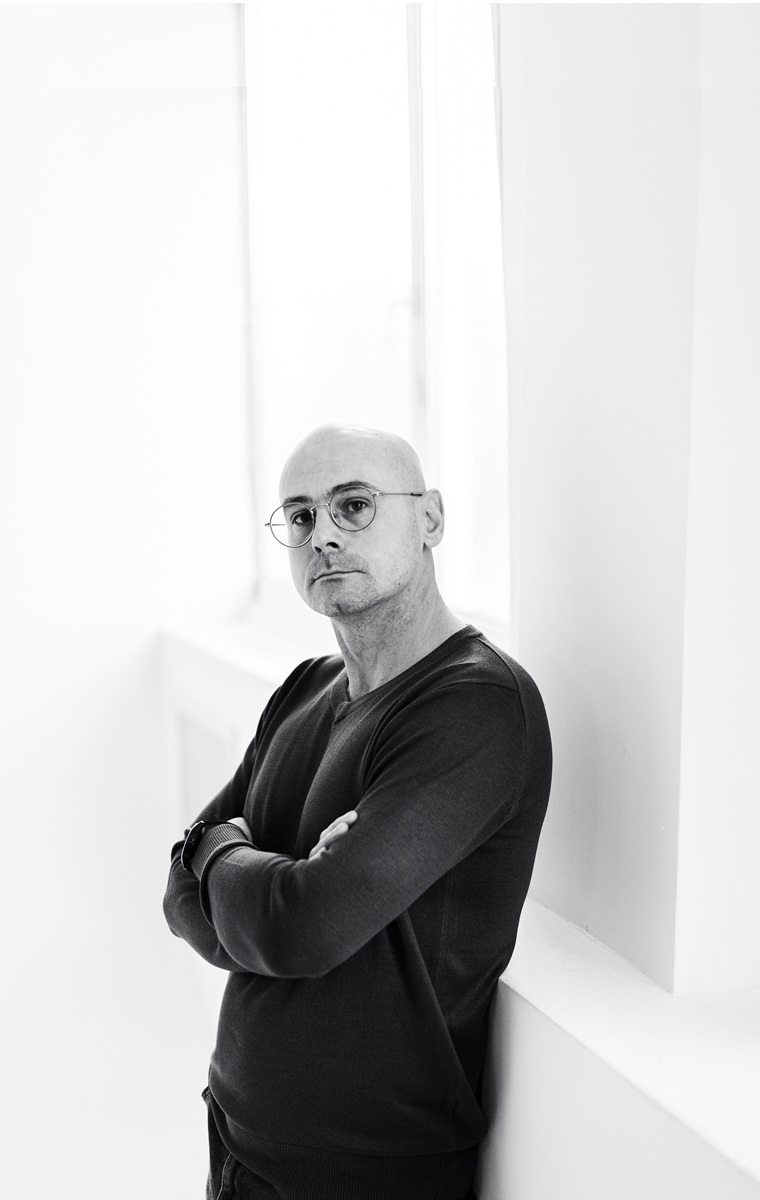
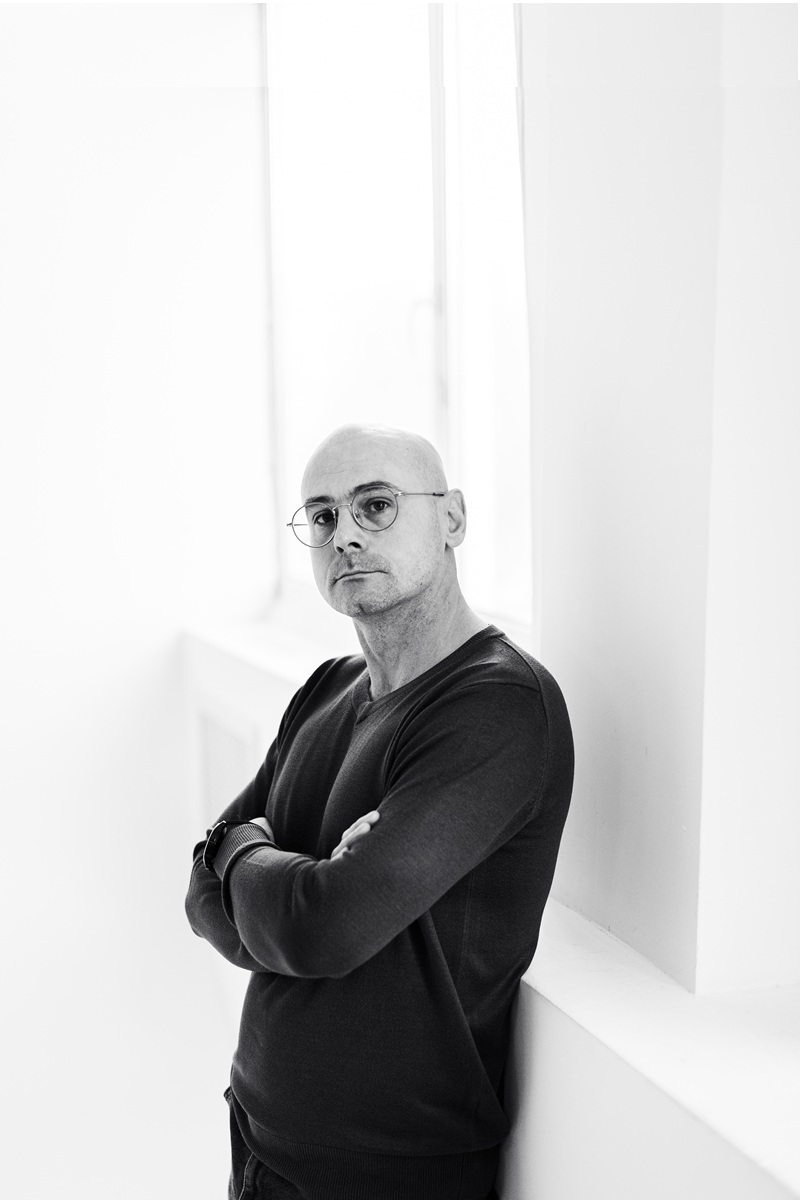
800x1200?

diff --git a/index.html b/index.html
@@ -32,7 +32,7 @@
 	  https://developers.facebook.com/documentation/sharing/webmasters/faq.md -->
 	<meta property="og:image" content="https://ivanpopov.pro/static/img/about/og-image-new.jpg" />
 	<meta property="og:image:type" content="image/jpeg" />
-	<meta property="og:image:width" content="760" />
+	<meta property="og:image:width" content="800" />
 	<meta property="og:image:height" content="1200" />
 	<meta property="og:image:alt" content="Иван Попов, (IT, AI)" />
 
